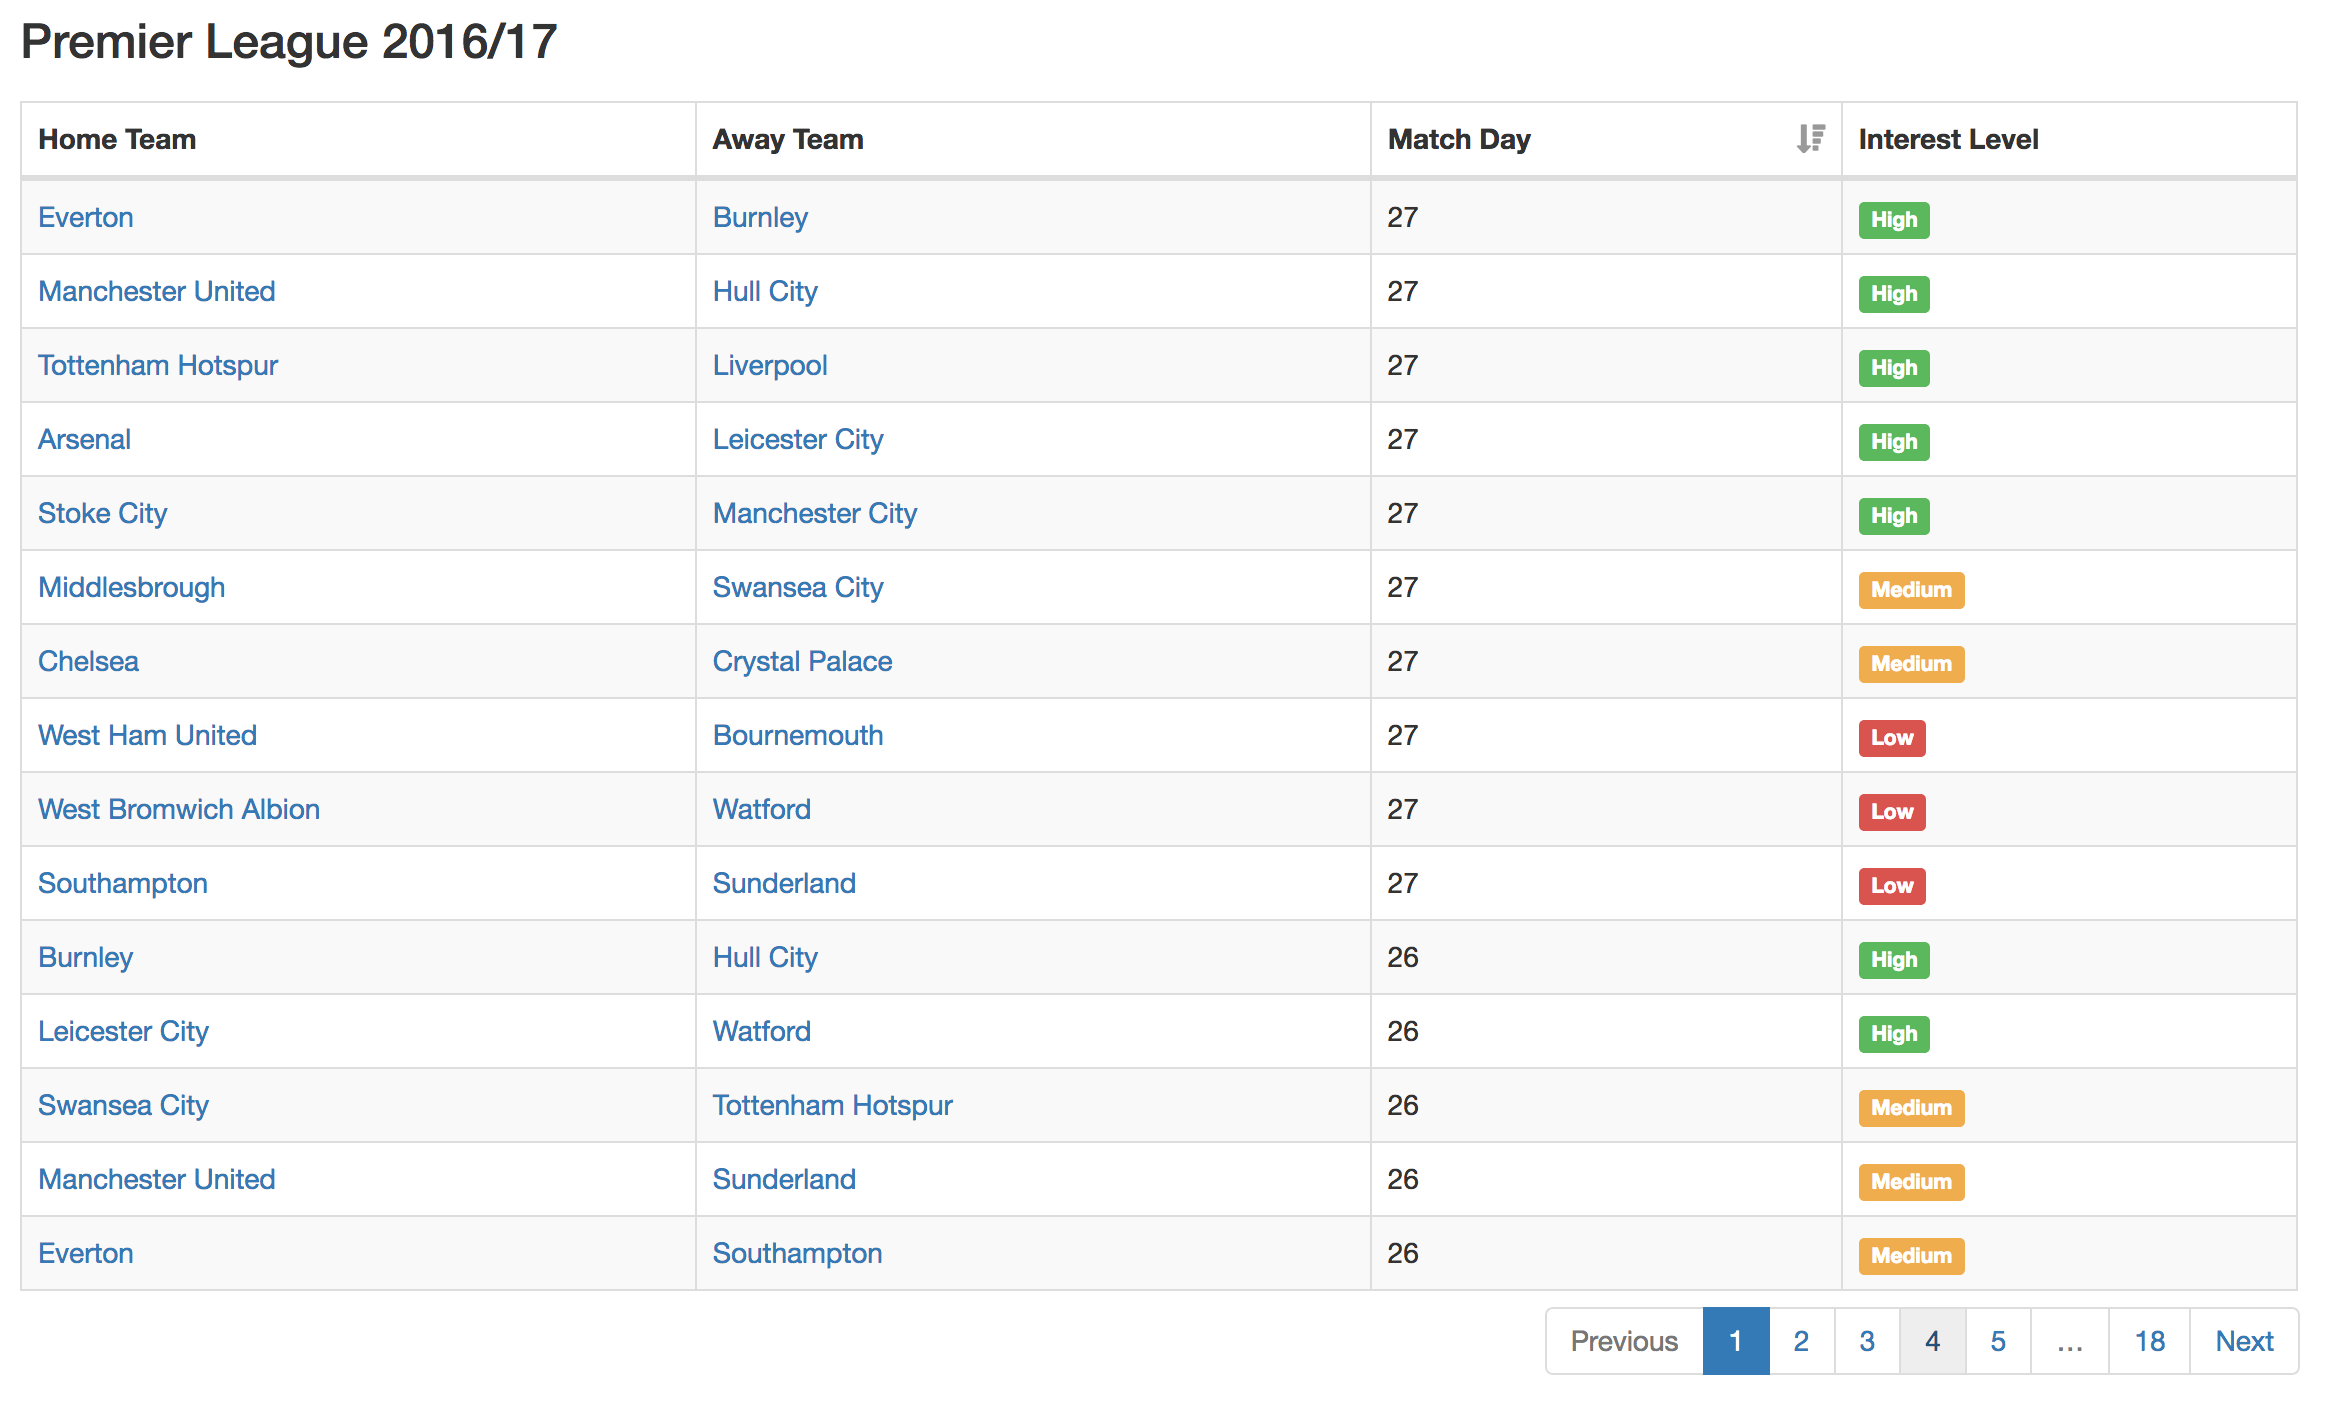
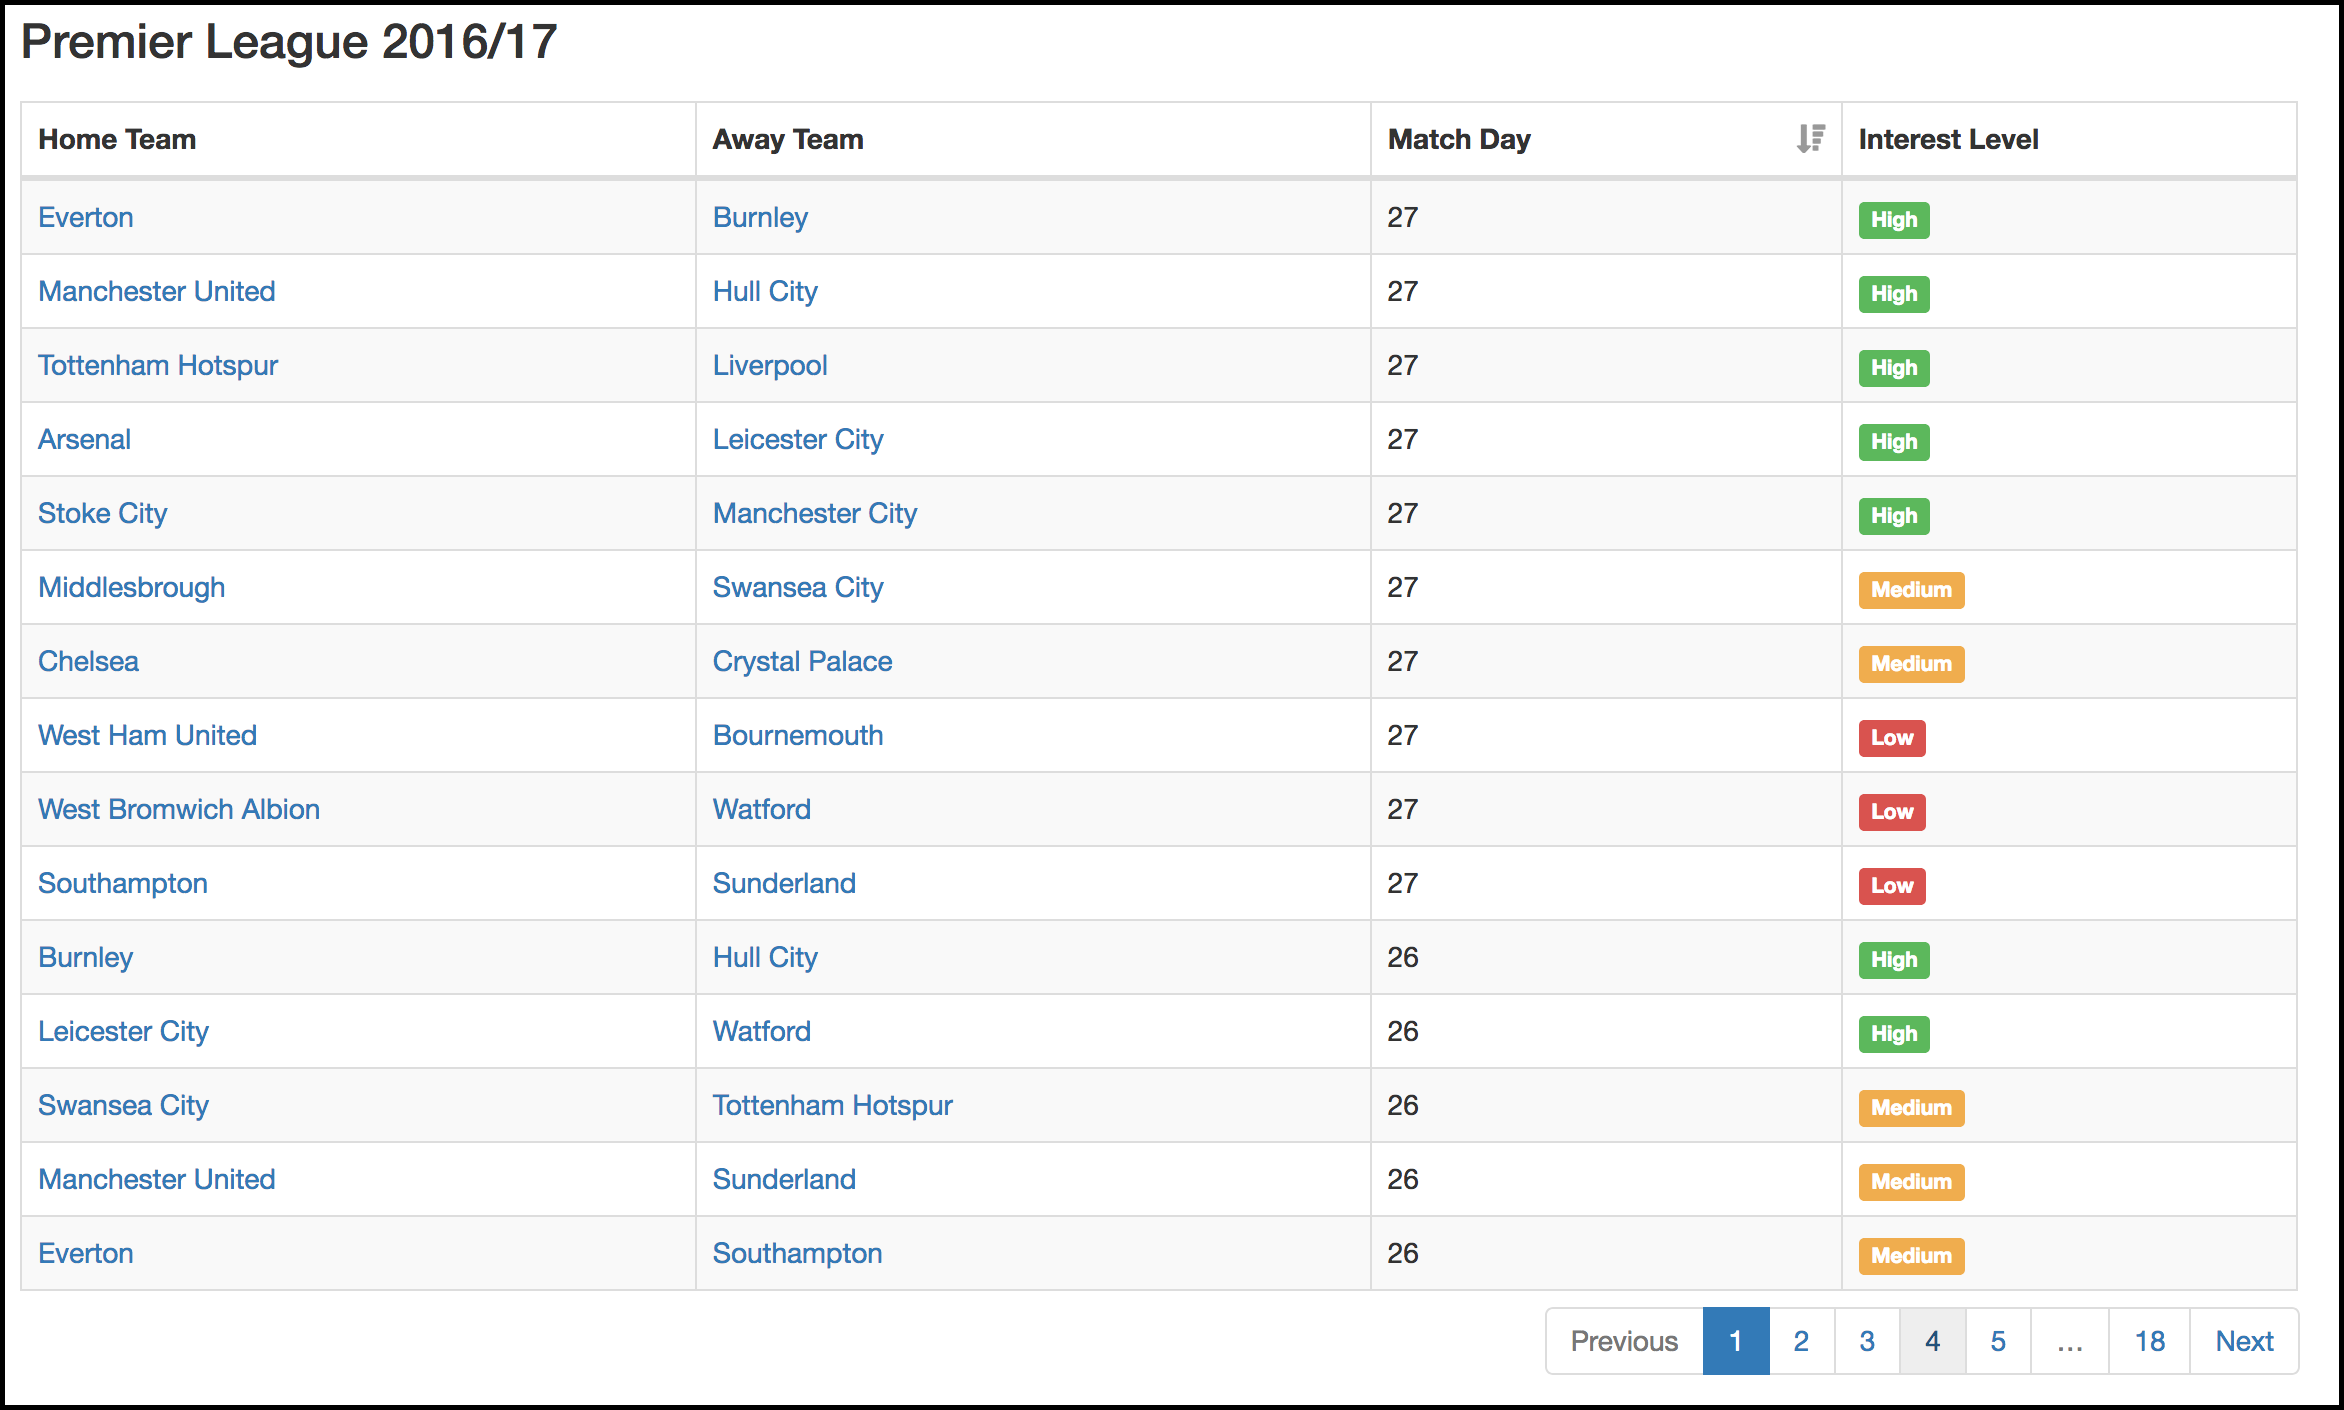
Add border to sample image

Changed region(s): [[0.0, 0.0, 1.0, 1.0]]

diff --git a/docs/installation.rst b/docs/installation.rst
@@ -1,5 +1,5 @@
-Installation
-============
+Getting Started
+===============
 
 Docker
 ------
